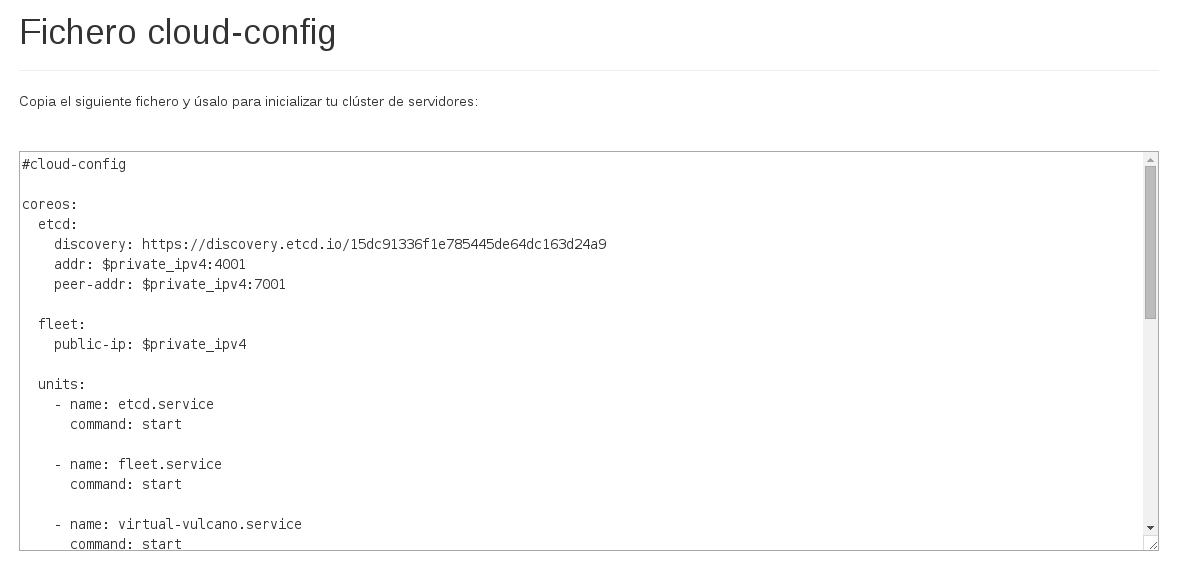
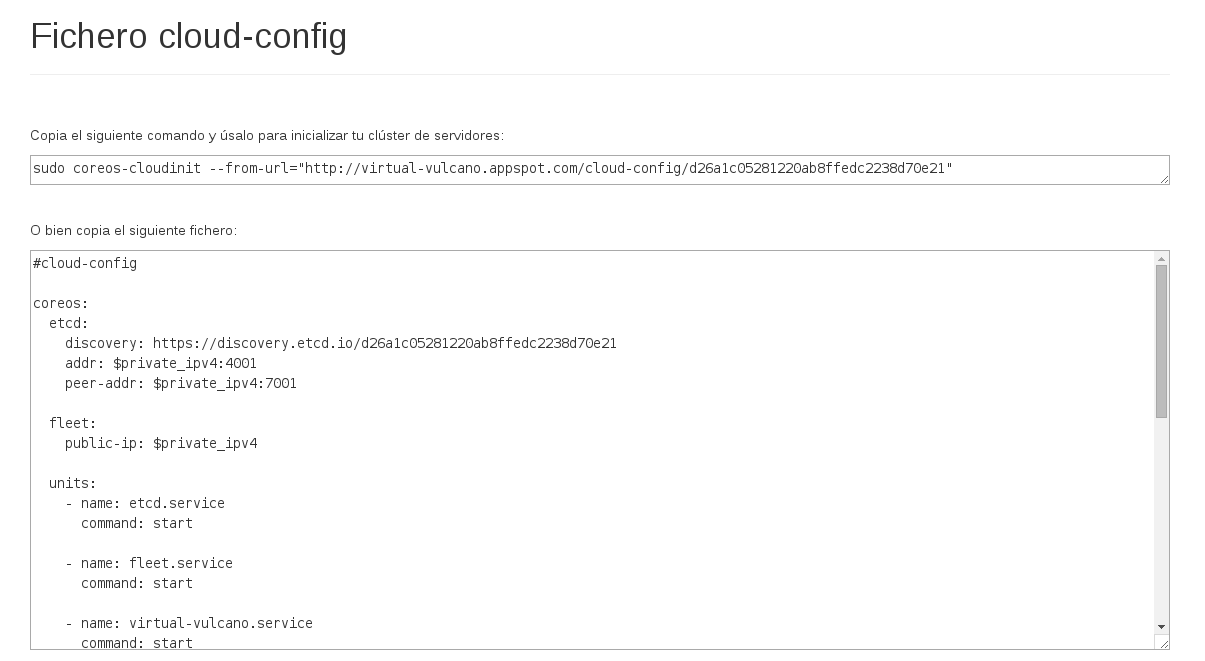
Adjustment in installation of azure to use cloud-config command.

Changed region(s): [[0.0, 0.178, 0.9983, 1.0], [0.0, 0.0297, 0.312, 0.089], [0.9671, 0.9494, 0.9983, 0.9791]]

diff --git a/docs/azure-setup.md b/docs/azure-setup.md
@@ -55,12 +55,12 @@ Entramos en el [instalador](http://virtual-vulcano.appspot.com/) y generamos un 
 
 ![Cloud-config](images/cloud-config.png "Cloud-config")
 
-Estamos [trabajando](https://github.com/ernestoalejo/virtual-vulcano/issues/23) para guardar el fichero online y facilitar este paso, pero de momento tenemos que copiarlo a algún sitio online y luego eliminarlo por privacidad y seguridad. Vamos a usar un gist como prueba.
+Este instalador nos da dos posibilidades:
 
-![Gists](images/gists.png "Gists")
+1. Usar el comando que nos indica.
+2. Usar el fichero cloud-config.
 
-Abrimos la versión raw del fichero y copiamos la dirección.
-
+Nosotros en este caso, para Azure, vamos a usar la primera posibilidad. Tan solo copiaremos el comando que nos muestra el instalador y lo usaremos en el siguiente paso.
 
 ### Inicializar de la máquina
 
@@ -72,10 +72,10 @@ Entramos en la máquina usando ssh:
 ssh core@[IP de la máquina]
 ```
 
-Una vez dentro de la máquina cargamos el fichero de configuración para inicializar el servicio:
+Una vez dentro de la máquina cargamos el fichero de configuración para inicializar el servicio, en nuestro caso, usaremos el comando proporcionado por el instalador:
 
 ```bash 
-sudo coreos-cloudinit --from-url="[dirección del gist raw]"
+sudo coreos-cloudinit --from-url="[dirección proporcionada por el instalador]"
 ```
 
 El servicio puede tardar uno o dos minutos en encender mientras MongoDB se inicializa y prepara la base de datos. Una vez que termine se puede acceder al panel de provisionamiento si ponemos la IP de la máquina en cualquier navegador.
